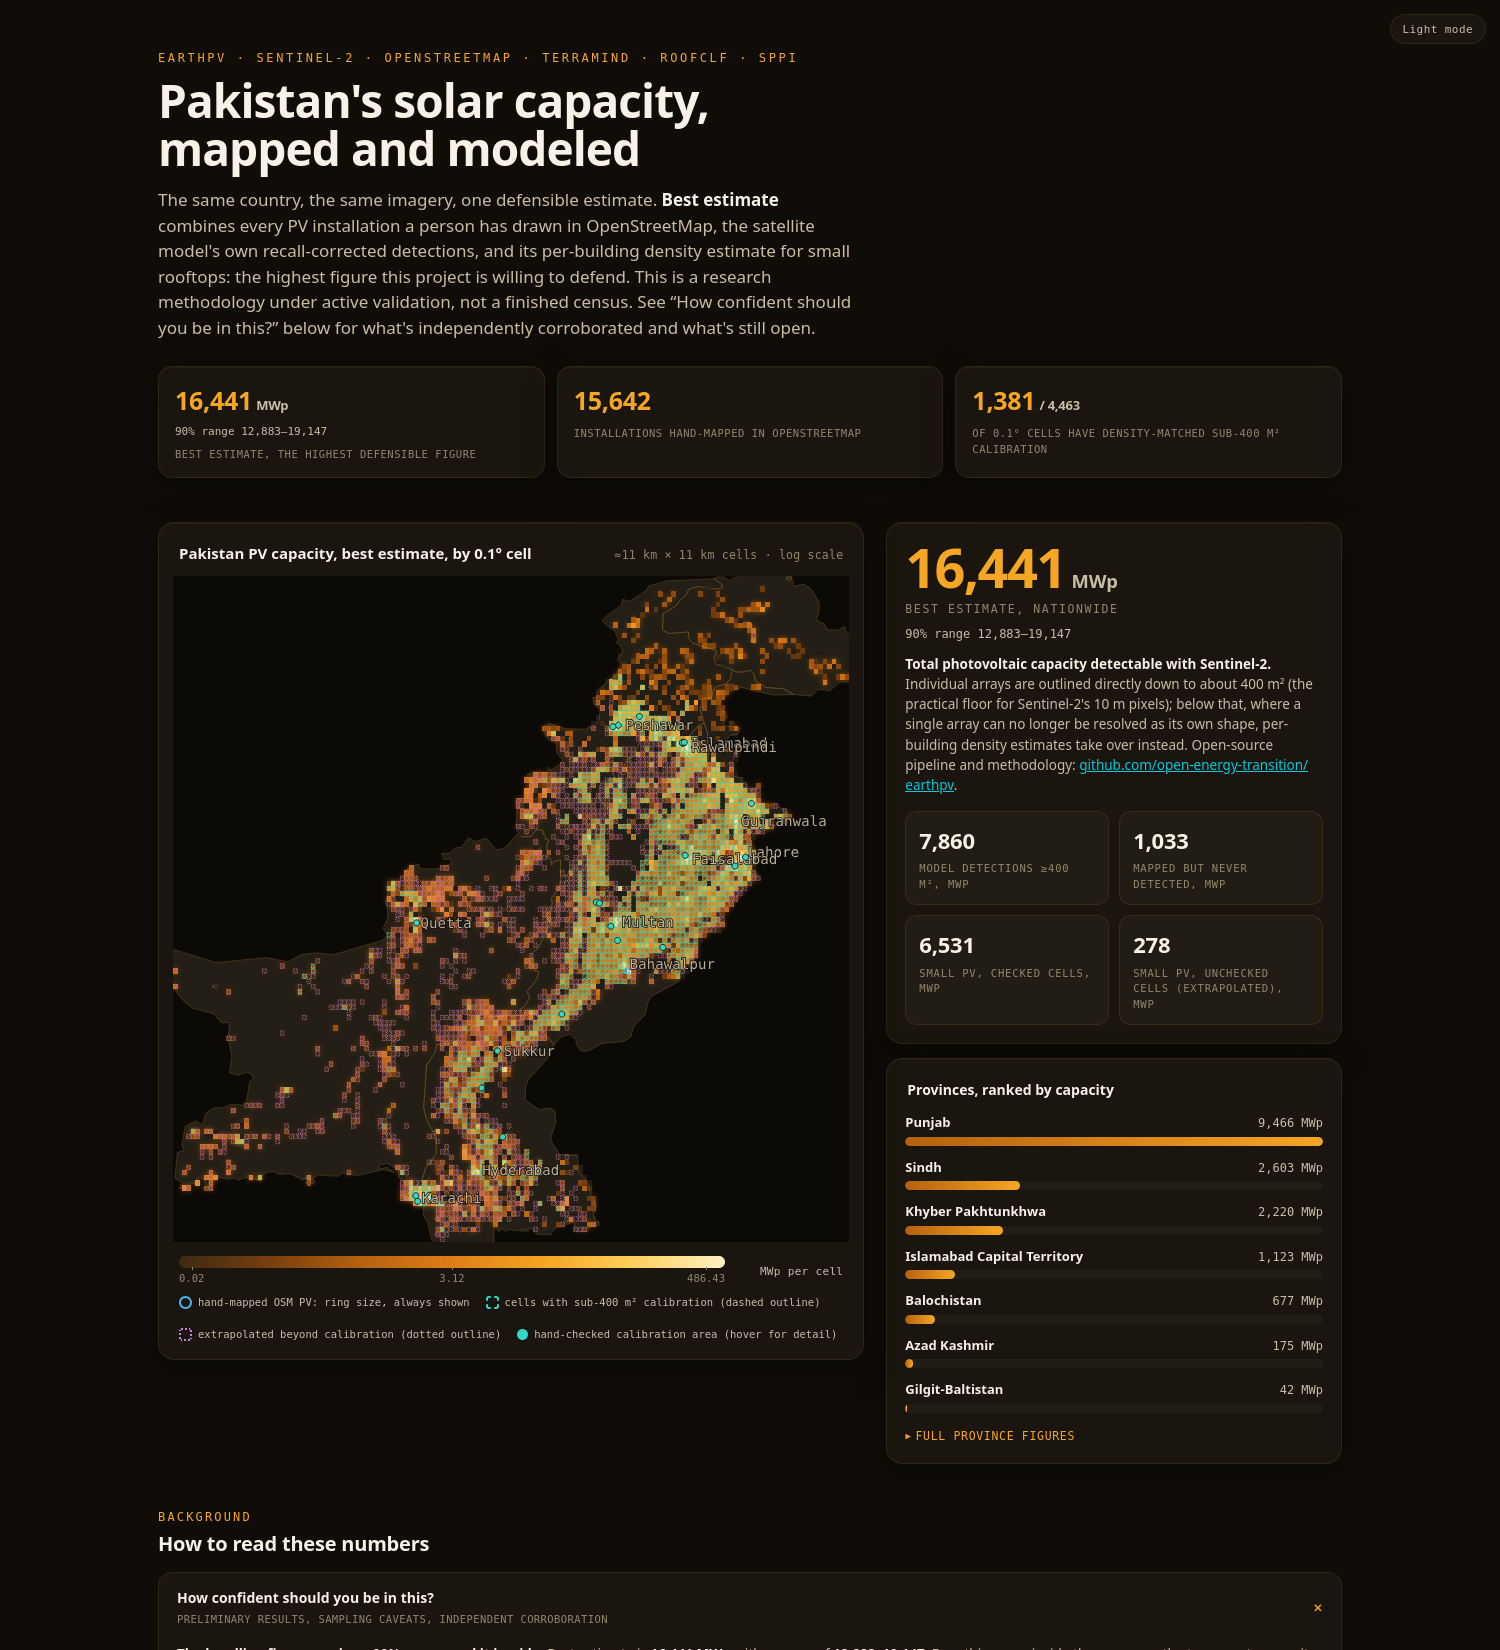
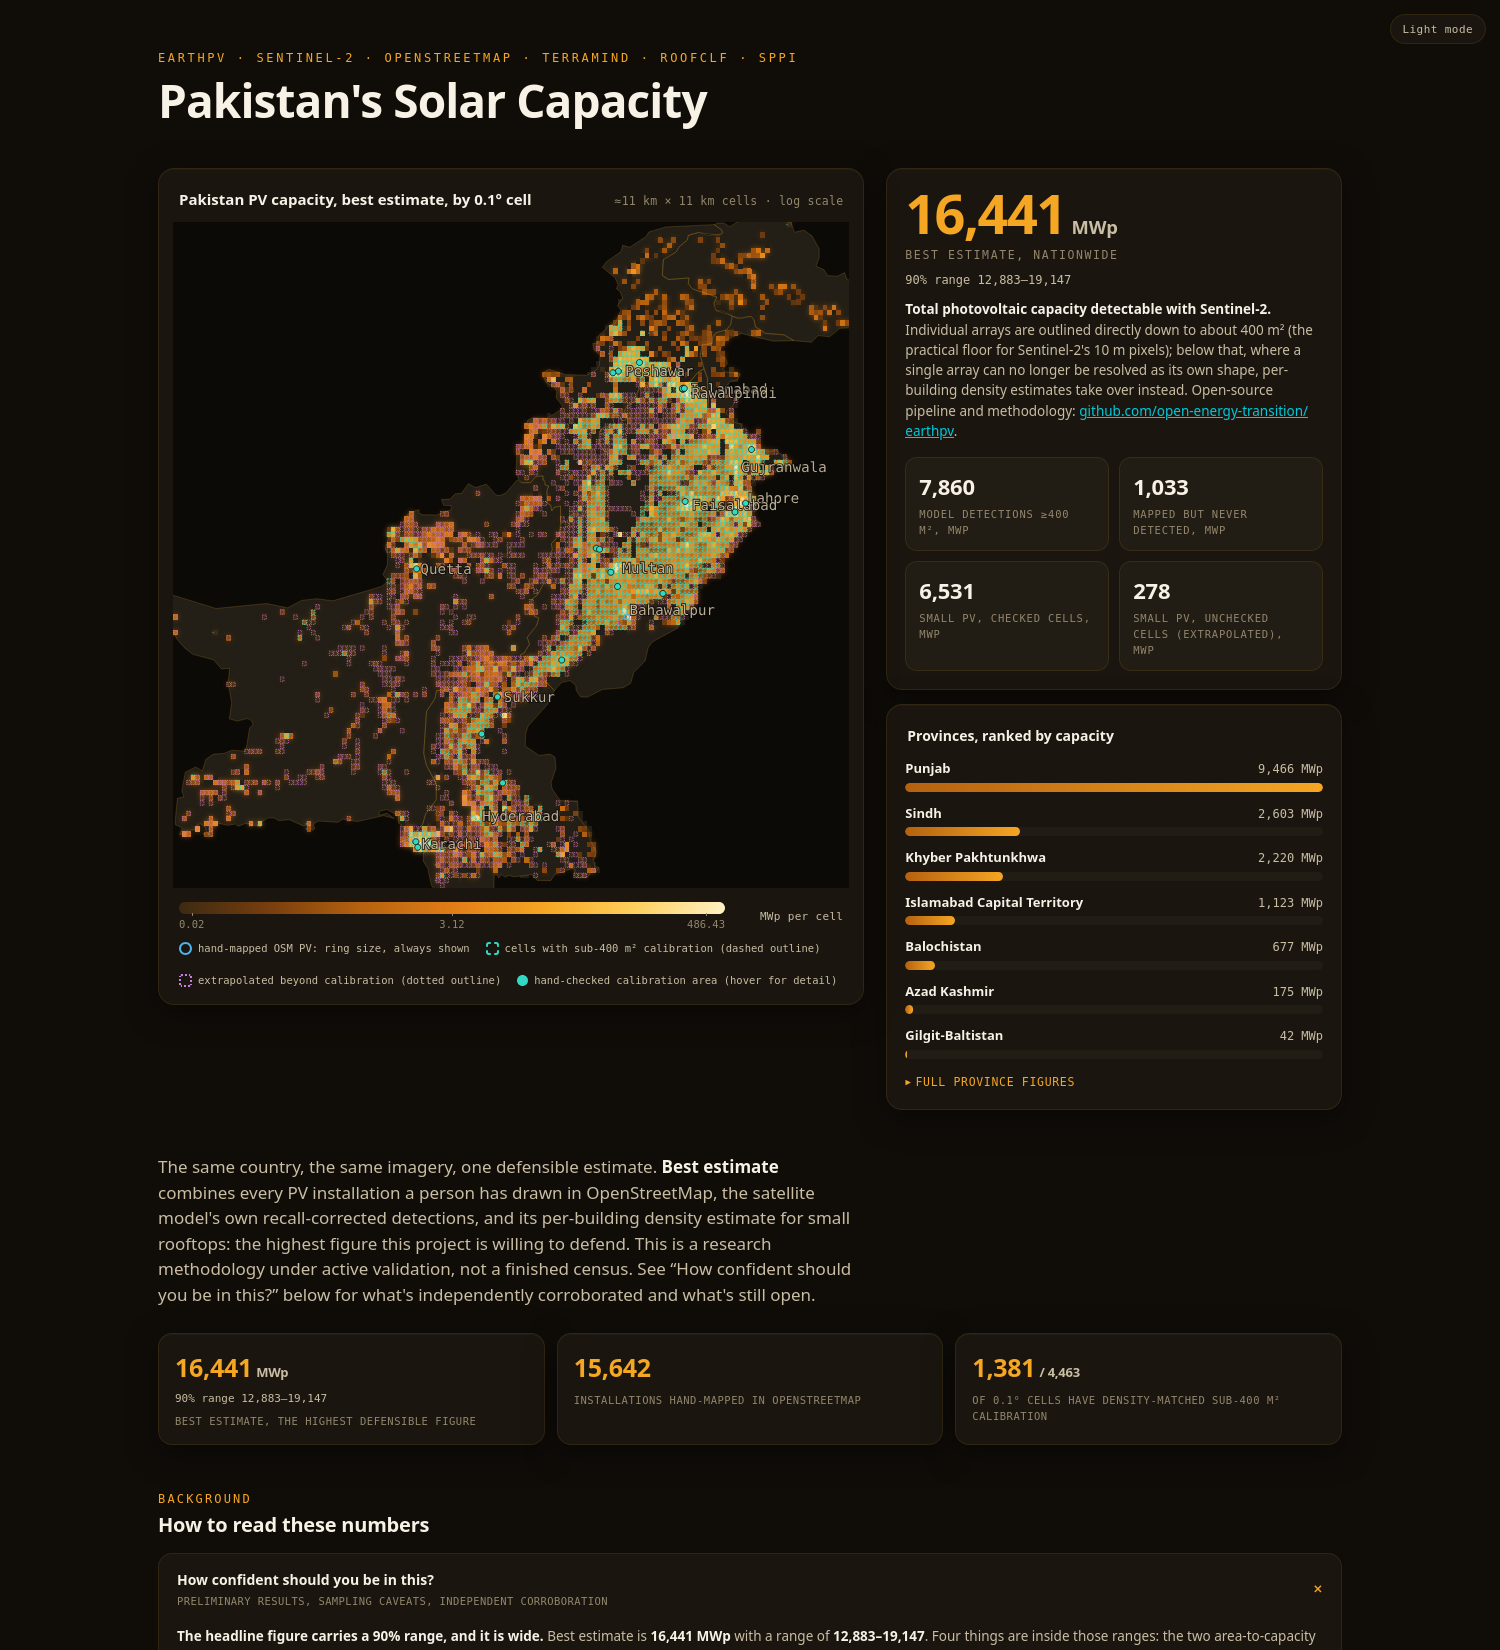
make capacity map the landing page

diff --git a/docs/assets/interactive/pakistan_evidence_atlas.html b/docs/assets/interactive/pakistan_evidence_atlas.html
@@ -83,7 +83,7 @@
     font-weight: 780; letter-spacing: -0.02em; text-wrap: balance; max-width: 24ch;
   }
   .lede {
-    margin: 14px 0 0; max-width: 72ch; color: var(--ink-2);
+    margin: 44px 0 0; max-width: 72ch; color: var(--ink-2);
     font-size: clamp(15px, 1.5vw, 17px);
   }
   .lede b { color: var(--ink); font-weight: 640; }
@@ -266,19 +266,8 @@
 <div class="wrap">
   <header>
     <p class="eyebrow">EarthPV · Sentinel-2 · OpenStreetMap · TerraMind · roofclf · SPPI</p>
-    <h1>Pakistan's solar capacity, mapped and modeled</h1>
-    <p class="lede">The same country, the same imagery, one defensible estimate. <b>Best estimate</b> combines every PV installation a person has drawn in OpenStreetMap, the satellite model's own recall-corrected detections, and its per-building density estimate for small rooftops: the highest figure this project is willing to defend. This is a research methodology under active validation, not a finished census. See &ldquo;How confident should you be in this?&rdquo; below for what's independently corroborated and what's still open.</p>
+    <h1>Pakistan's Solar Capacity</h1>
   </header>
-
-  <div class="kpis">
-    <div class="kpi"><div class="v" id="kBest">0<small>MWp</small></div>
-      <div class="r" id="kBestCi"></div>
-      <div class="k">Best estimate, the highest defensible figure</div></div>
-    <div class="kpi"><div class="v" id="kOsm">0</div>
-      <div class="k">Installations hand-mapped in OpenStreetMap</div></div>
-    <div class="kpi"><div class="v" id="kDomain">0</div>
-      <div class="k">of 0.1&deg; cells have density-matched sub-400 m&sup2; calibration</div></div>
-  </div>
 
   <section class="sec" id="capacity">
     <div class="grid">
@@ -339,6 +328,18 @@
       </aside>
     </div>
   </section>
+
+  <p class="lede">The same country, the same imagery, one defensible estimate. <b>Best estimate</b> combines every PV installation a person has drawn in OpenStreetMap, the satellite model's own recall-corrected detections, and its per-building density estimate for small rooftops: the highest figure this project is willing to defend. This is a research methodology under active validation, not a finished census. See &ldquo;How confident should you be in this?&rdquo; below for what's independently corroborated and what's still open.</p>
+
+  <div class="kpis">
+    <div class="kpi"><div class="v" id="kBest">0<small>MWp</small></div>
+      <div class="r" id="kBestCi"></div>
+      <div class="k">Best estimate, the highest defensible figure</div></div>
+    <div class="kpi"><div class="v" id="kOsm">0</div>
+      <div class="k">Installations hand-mapped in OpenStreetMap</div></div>
+    <div class="kpi"><div class="v" id="kDomain">0</div>
+      <div class="k">of 0.1&deg; cells have density-matched sub-400 m&sup2; calibration</div></div>
+  </div>
 
   <section class="sec" id="background">
     <div class="sec-head">

diff --git a/src/earthpv/templates/pv_evidence_atlas.html b/src/earthpv/templates/pv_evidence_atlas.html
@@ -83,7 +83,7 @@
     font-weight: 780; letter-spacing: -0.02em; text-wrap: balance; max-width: 24ch;
   }
   .lede {
-    margin: 14px 0 0; max-width: 72ch; color: var(--ink-2);
+    margin: 44px 0 0; max-width: 72ch; color: var(--ink-2);
     font-size: clamp(15px, 1.5vw, 17px);
   }
   .lede b { color: var(--ink); font-weight: 640; }
@@ -267,18 +267,7 @@
   <header>
     <p class="eyebrow">EarthPV · Sentinel-2 · OpenStreetMap · TerraMind · roofclf · SPPI</p>
     <h1>__H1__</h1>
-    <p class="lede">__LEDE_HTML__</p>
   </header>
-
-  <div class="kpis">
-    <div class="kpi"><div class="v" id="kBest">0<small>MWp</small></div>
-      <div class="r" id="kBestCi"></div>
-      <div class="k">Best estimate, the highest defensible figure</div></div>
-    <div class="kpi"><div class="v" id="kOsm">0</div>
-      <div class="k">Installations hand-mapped in OpenStreetMap</div></div>
-    <div class="kpi"><div class="v" id="kDomain">0</div>
-      <div class="k">of 0.1&deg; cells have density-matched sub-400 m&sup2; calibration</div></div>
-  </div>
 
   <section class="sec" id="capacity">
     <div class="grid">
@@ -339,6 +328,18 @@
       </aside>
     </div>
   </section>
+
+  <p class="lede">__LEDE_HTML__</p>
+
+  <div class="kpis">
+    <div class="kpi"><div class="v" id="kBest">0<small>MWp</small></div>
+      <div class="r" id="kBestCi"></div>
+      <div class="k">Best estimate, the highest defensible figure</div></div>
+    <div class="kpi"><div class="v" id="kOsm">0</div>
+      <div class="k">Installations hand-mapped in OpenStreetMap</div></div>
+    <div class="kpi"><div class="v" id="kDomain">0</div>
+      <div class="k">of 0.1&deg; cells have density-matched sub-400 m&sup2; calibration</div></div>
+  </div>
 
   <section class="sec" id="background">
     <div class="sec-head">

diff --git a/src/earthpv/atlas.py b/src/earthpv/atlas.py
@@ -1984,7 +1984,7 @@ def build_evidence_atlas(
     for key, value in {
         "__PV_DATA_JSON__": json.dumps(data, separators=(",", ":")),
         "__PAGE_TITLE__": f"{title} Solar PV: Evidence Atlas",
-        "__H1__": f"{title}'s solar capacity, mapped and modeled",
+        "__H1__": f"{title}'s Solar Capacity",
         "__AOI_TITLE__": title,
         "__LEDE_HTML__": (
             "The same country, the same imagery, one defensible estimate. "
